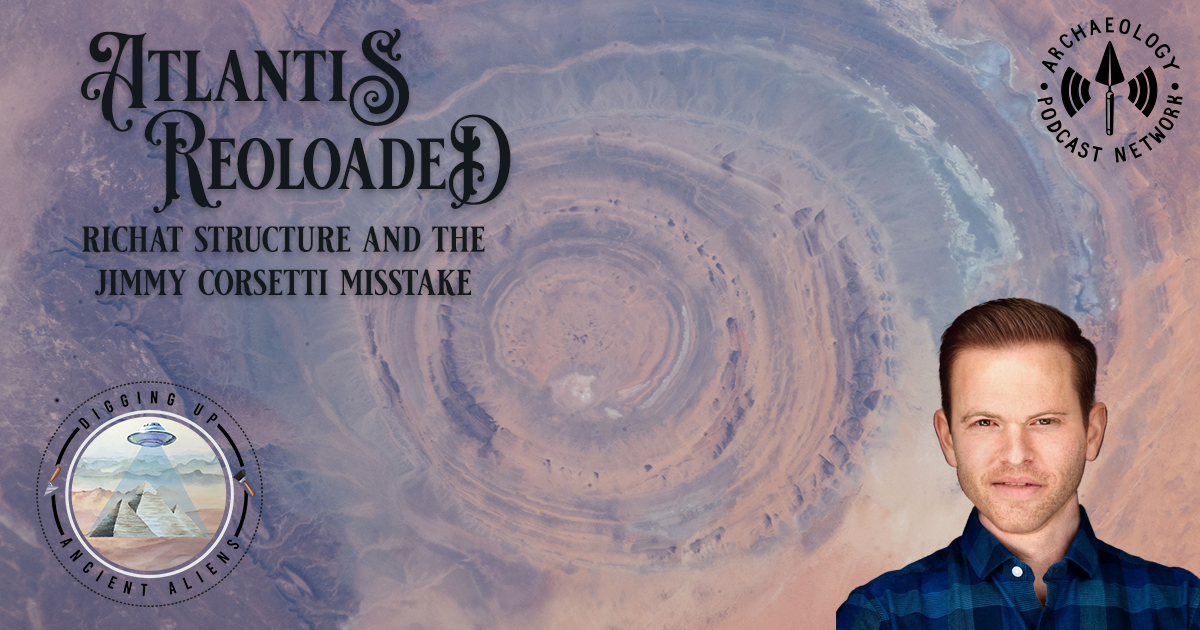
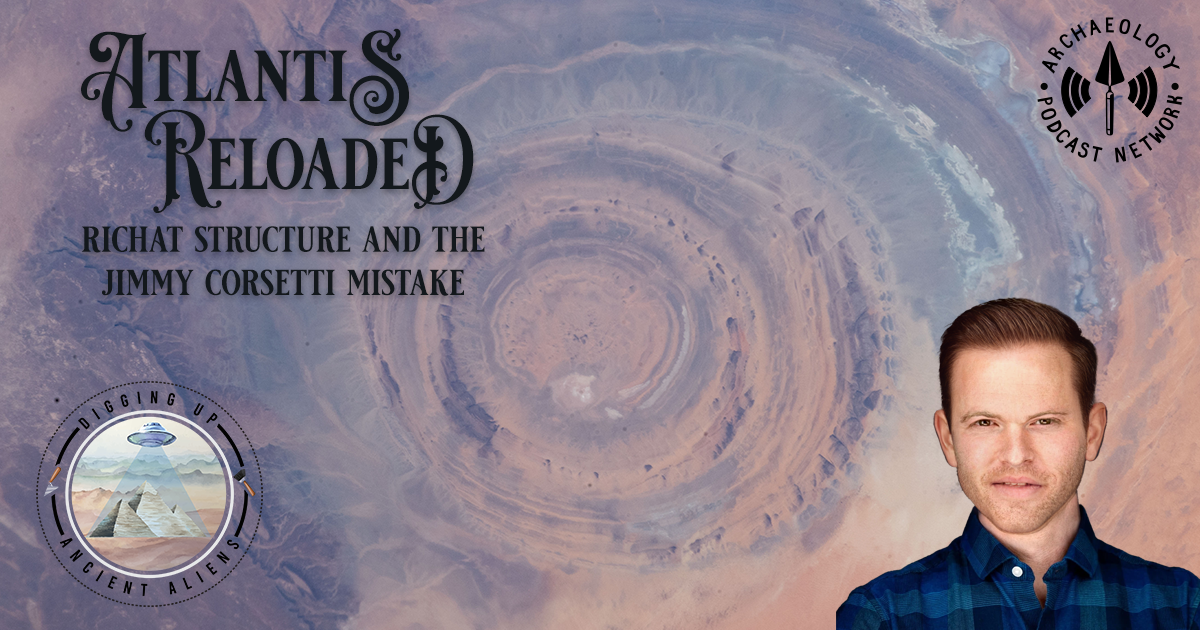
fixes

Changed region(s): [[0.185, 0.181, 0.4317, 0.3317], [0.0617, 0.4222, 0.4008, 0.4825]]

diff --git a/episode-41-atlantis-reloaded-corsetti.html b/episode-41-atlantis-reloaded-corsetti.html
@@ -48,7 +48,7 @@
     </script>
     <link rel="icon" href="img/Tab-Icon.png" />
     <title>
-      Atlantis Reloded - Richat structure and the Jimmy Corsetti misstake
+      Atlantis Reloaded - Richat structure and the Jimmy Corsetti mistake
     </title>
     <meta
       name="description"
@@ -63,7 +63,7 @@
     <meta
       property="og:title"
       content="
-      Atlantis Reloded - Richat structure and the Jimmy Corsetti misstake "
+      Atlantis Reloaded - Richat structure and the Jimmy Corsetti mistake "
     />
     <meta
       property="og:description"
@@ -81,7 +81,7 @@
     <meta
       name="twitter:title"
       content="
-      Atlantis Reloded - Richat structure and the Jimmy Corsetti misstake "
+      Atlantis Reloaded - Richat structure and the Jimmy Corsetti mistake "
     />
     <meta
       name="twitter:description"
@@ -155,7 +155,7 @@
     <section class="container">
       <article class="blog-post">
         <h2 class="blog-post-title">
-          Atlantis Reloded - Richat structure and the Jimmy Corsetti misstake
+          Atlantis Reloaded - Richat structure and the Jimmy Corsetti mistake
         </h2>
         <p class="blog-post-meta">
           July 25, 2023 by <a href="about.html">Fredrik</a>
